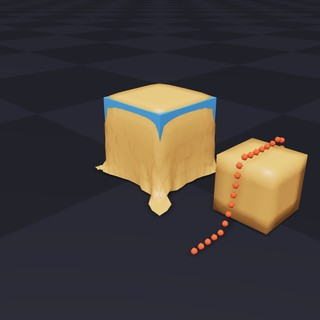
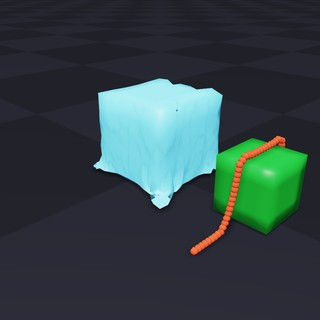
Polish the MuJoCo flex example rendering
Give the cloth flex a 2 cm radius so its triangles no longer cut
through the box edges between particles, draw the cable as overlapping
spheres at its particles and segment midpoints so it reads as a rope,
and color the cloth and block differently. Update the screenshot.

Changed region(s): [[0.2812, 0.2188, 0.9688, 0.8125]]

diff --git a/newton/examples/mujoco/example_mujoco_flex.py b/newton/examples/mujoco/example_mujoco_flex.py
@@ -32,14 +32,19 @@ BOX_HALF = 0.15
 CLOTH_CELLS, CLOTH_SIZE = 16, 0.6
 CABLE_SEGMENTS, CABLE_LENGTH = 30, 0.9
 PARTICLE_RADIUS = 0.01
+# A cloth flex radius of about half the cloth spacing keeps its triangles outside the box edges.
+CLOTH_RADIUS = 0.02
+CLOTH_COLOR = (0.4, 0.8, 0.93)
+BLOCK_COLOR = (0.13, 0.53, 0.2)
 CABLE_COLOR = (0.85, 0.3, 0.2)
 
 
 @wp.kernel(enable_backward=False)
-def gather_points(points: wp.array[wp.vec3], indices: wp.array[wp.int32], out: wp.array[wp.vec3]):
-    """Gather the cable particles so the viewer can draw them."""
-    i = wp.tid()
-    out[i] = points[indices[i]]
+def cable_render_points(points: wp.array[wp.vec3], starts: wp.array[wp.int32], out: wp.array2d[wp.vec3]):
+    """Sample each world's cable at its particles and segment midpoints so the spheres overlap into a rope."""
+    world, j = wp.tid()
+    a = starts[world] + j // 2
+    out[world, j] = 0.5 * (points[a] + points[a + j % 2])
 
 
 def build_world() -> newton.ModelBuilder:
@@ -65,8 +70,11 @@ def build_world() -> newton.ModelBuilder:
         tri_ke=1.0e3,
         tri_ka=1.0e3,
         particle_radius=PARTICLE_RADIUS,
+        color=CLOTH_COLOR,
     )
-    mujoco.add_flex(builder, triangles=range(start, builder.tri_count), elastic2d="both", thickness=1.0e-3)
+    mujoco.add_flex(
+        builder, triangles=range(start, builder.tri_count), elastic2d="both", thickness=1.0e-3, radius=CLOTH_RADIUS
+    )
 
     segment = CABLE_LENGTH / CABLE_SEGMENTS
     cable = [
@@ -93,6 +101,7 @@ def build_world() -> newton.ModelBuilder:
         k_lambda=2.0e4,
         k_damp=0.0,
         particle_radius=PARTICLE_RADIUS,
+        color=BLOCK_COLOR,
     )
     return builder
 
@@ -122,14 +131,14 @@ class Example:
         self.state_1 = self.model.state()
         self.control = self.model.control()
 
-        # The viewer draws the cloth and block triangles; draw the cable particles separately.
-        cloth = (CLOTH_CELLS + 1) ** 2
+        # The viewer draws the cloth and block triangles; draw the cable as overlapping spheres.
         per_world = self.model.particle_count // self.world_count
-        cable = np.arange(cloth, cloth + CABLE_SEGMENTS + 1) + per_world * np.arange(self.world_count)[:, None]
-        self.cable_ids = wp.array(cable.ravel(), dtype=wp.int32)
-        self.cable_points = wp.empty(self.cable_ids.shape, dtype=wp.vec3)
-        self.cable_radii = wp.full(self.cable_ids.shape, PARTICLE_RADIUS, dtype=wp.float32)
-        self.cable_colors = wp.full(self.cable_ids.shape, wp.vec3(CABLE_COLOR), dtype=wp.vec3)
+        starts = (CLOTH_CELLS + 1) ** 2 + per_world * np.arange(self.world_count)
+        self.cable_starts = wp.array(starts, dtype=wp.int32)
+        self.cable_points = wp.empty((self.world_count, 2 * CABLE_SEGMENTS + 1), dtype=wp.vec3)
+        count = self.cable_points.size
+        self.cable_radii = wp.full(count, 1.2 * PARTICLE_RADIUS, dtype=wp.float32)
+        self.cable_colors = wp.full(count, wp.vec3(CABLE_COLOR), dtype=wp.vec3)
 
         self.viewer.set_model(self.model)
         self.viewer.set_camera(pos=wp.vec3(1.0, -1.0, 0.7), pitch=-25.0, yaw=135.0)
@@ -161,9 +170,12 @@ class Example:
         self.viewer.begin_frame(self.sim_time)
         self.viewer.log_state(self.state_0)
         wp.launch(
-            gather_points, self.cable_ids.shape, inputs=[self.state_0.particle_q, self.cable_ids, self.cable_points]
+            cable_render_points,
+            self.cable_points.shape,
+            inputs=[self.state_0.particle_q, self.cable_starts],
+            outputs=[self.cable_points],
         )
-        self.viewer.log_points("cable", self.cable_points, self.cable_radii, self.cable_colors)
+        self.viewer.log_points("cable", self.cable_points.flatten(), self.cable_radii, self.cable_colors)
         self.viewer.end_frame()
 
     def test_final(self):
